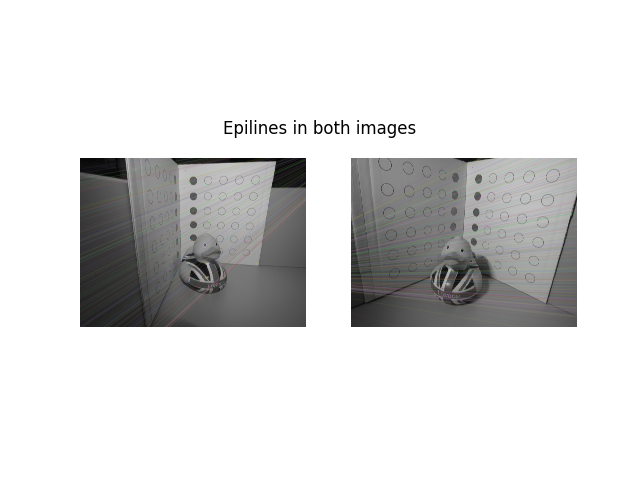
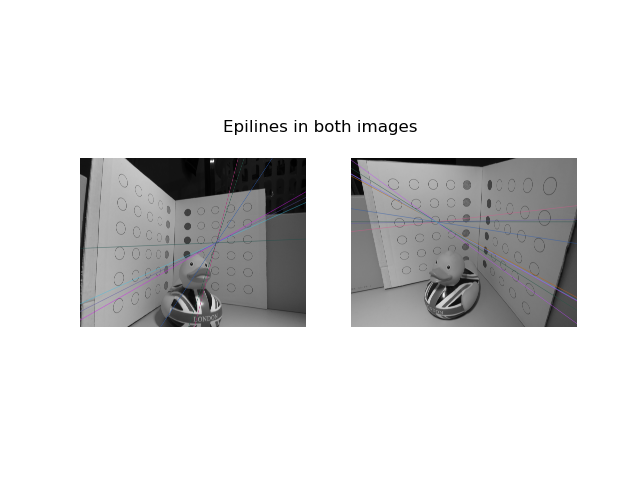
updated homography and fundemental matrix code and resources

Changed region(s): [[0.5312, 0.3125, 0.9062, 0.6875], [0.125, 0.3125, 0.5, 0.6875], [0.3438, 0.25, 0.6562, 0.2812]]

diff --git a/cw1/homographyMatrix/cw1_task4_v2.py b/cw1/homographyMatrix/cw1_task4_v2.py
@@ -3,8 +3,8 @@ import cv2 as cv
 from matplotlib import pyplot as plt
 
 MIN_MATCH_COUNT = 10
-file1 = f"./HG/0.jpg"
-file2 = f"./HG/9.jpg"
+file1 = f"./data/0.JPG"
+file2 = f"./data/2.JPG"
 
 img1_og = cv.imread(file1)
 img2_og = cv.imread(file2)
@@ -13,7 +13,7 @@ img1 = cv.cvtColor(img1_og, cv.COLOR_BGR2GRAY) # queryImage
 img2 = cv.cvtColor(img2_og, cv.COLOR_BGR2GRAY)# trainImage
 
 # Initiate SIFT detector
-#n_kp = 100
+# n_kp = 1000
 sift = cv.SIFT_create()
 
 # find the keypoints and descriptors with SIFT
@@ -37,7 +37,7 @@ bad = []
 for m,n in matches:
     if m.distance < 0.8*n.distance:
         good.append(m)
-    elif m.distance > 0.99 * n.distance:
+    elif m.distance >= n.distance:
         bad.append(m)
 
 src_pts_bad = np.float32([ kp1[m.queryIdx].pt for m in bad ]).reshape(-1,1,2)
@@ -75,16 +75,17 @@ draw_params_2 = dict(matchColor = (255,0,0), # draw matches in green color
 img3 = cv.drawMatches(cv.cvtColor(img1_og, cv.COLOR_BGR2RGB),kp1,cv.cvtColor(img2_og, cv.COLOR_BGR2RGB),kp2,good,None,**draw_params_1)
 img4 = cv.drawMatches(cv.cvtColor(img1_og, cv.COLOR_BGR2RGB),kp1,cv.cvtColor(img2_og, cv.COLOR_BGR2RGB),kp2,bad,None,**draw_params_2)
 
-plt.imshow(img3, 'gray')
-plt.axis('off')
-plt.savefig('goodcorr.png')
-plt.show()
+# plt.figure(1)
+# plt.imshow(img3, 'gray')
+# plt.axis('off')
+# plt.savefig('goodcorr.png')
+# plt.show()
 
-
-plt.imshow(img4, 'gray')
-plt.axis('off')
-plt.savefig('badcorr.png')
-plt.show()
+# plt.figure(2)
+# plt.imshow(img4, 'gray')
+# plt.axis('off')
+# plt.savefig('badcorr.png')
+# plt.show()
 
 
 #######################################################################
@@ -95,7 +96,7 @@ img_OG = cv.cvtColor(cv.imread(file1), cv.COLOR_BGR2RGB)
 
 transformed_img = cv.warpPerspective(img_test, np.linalg.inv(M), (w,h))
 # create figure
-fig = plt.figure(figsize=(10, 3))
+fig = plt.figure(3, figsize=(10, 3))
 
 # Adds a subplot at the 1st position
 fig.add_subplot(1, 3, 1)
@@ -119,7 +120,7 @@ fig.add_subplot(1, 3, 3)
 # showing image
 plt.imshow(transformed_img)
 plt.axis('off')
-plt.title("H applied to Image 2")
+plt.title("Homography applied to Image 2")
 
 plt.savefig('H_applied.png')
 plt.show(block = True)

diff --git a/cw1/fundamentalMatrix/cw1_Q4_F_v2.py b/cw1/fundamentalMatrix/cw1_Q4_F_v2.py
@@ -4,8 +4,8 @@ import numpy as np
 import cv2 as cv
 from matplotlib import pyplot as plt
 
-img1 = cv.imread(f"./real2.JPG",0)  #queryimage # left image
-img2 = cv.imread(f"./real1.JPG",0) #trainimage # right image
+img1 = cv.imread(f"./data/f.JPG",0)  #queryimage # left image
+img2 = cv.imread(f"./data/e.JPG",0) #trainimage # right image
 
 sift = cv.SIFT_create()
 
@@ -51,13 +51,13 @@ def drawlines(img1src, img2src, lines, pts1src, pts2src):
     img2color = cv.cvtColor(img2src, cv.COLOR_GRAY2BGR)
     # Edit: use the same random seed so that two images are comparable!
     np.random.seed(0)
-    for r, pt1, pt2 in zip(lines, pts1src, pts2src):
+    for r, pt1, pt2 in tuple(zip(lines, pts1src, pts2src))[:10]:
         color = tuple(np.random.randint(0, 255, 3).tolist())
         x0, y0 = map(int, [0, -r[2]/r[1]])
         x1, y1 = map(int, [c, -(r[2]+r[0]*c)/r[1]])
-        img1color = cv.line(img1color, (x0, y0), (x1, y1), color, 1)
-        img1color = cv.circle(img1color, tuple(pt1), 5, color, -1)
-        img2color = cv.circle(img2color, tuple(pt2), 5, color, -1)
+        img1color = cv.line(img1color, (x0, y0), (x1, y1), color, 5)
+        # img1color = cv.circle(img1color, tuple(pt1), 5, color, -1)
+        # img2color = cv.circle(img2color, tuple(pt2), 5, color, -1)
     return img1color, img2color
 
 # Find epilines corresponding to points in right image (second image) and
@@ -74,6 +74,9 @@ lines2 = cv.computeCorrespondEpilines(
 lines2 = lines2.reshape(-1, 3)
 img3, img4 = drawlines(img2, img1, lines2, pts2, pts1)
 
+cv.imwrite("./outputs/left.jpg", img5)
+cv.imwrite("./outputs/right.jpg", img3)
+exit()
 plt.figure()
 plt.subplot(121), plt.axis('off'), plt.imshow(img5)
 plt.subplot(122), plt.axis('off'), plt.imshow(img3)
